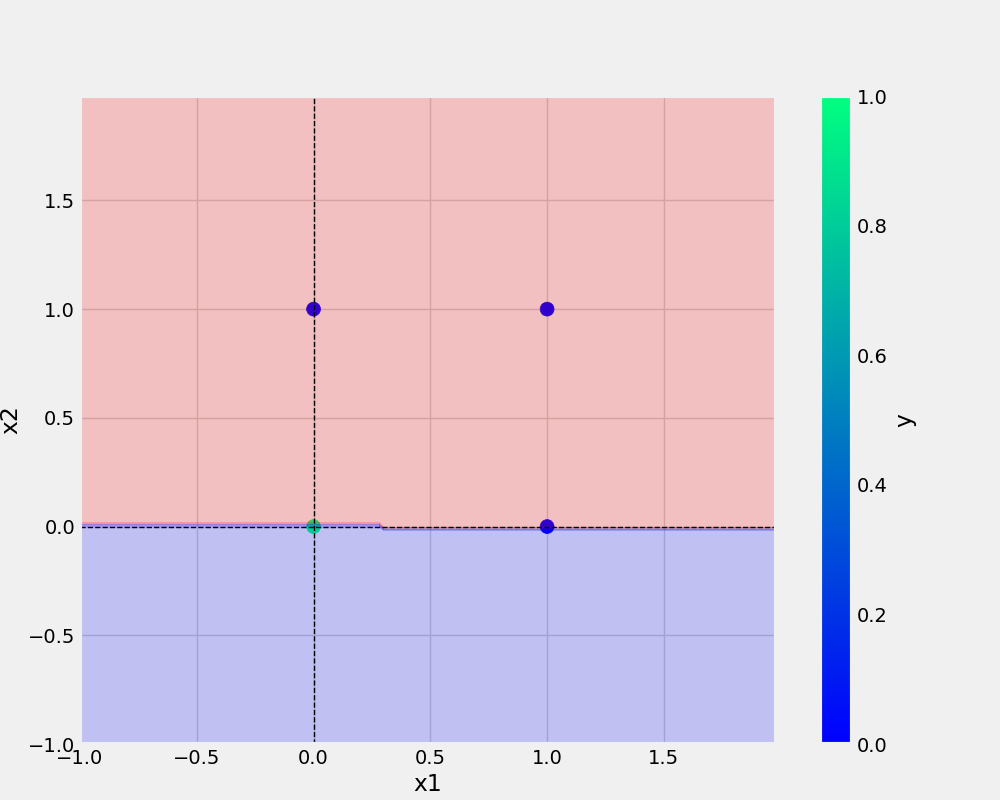
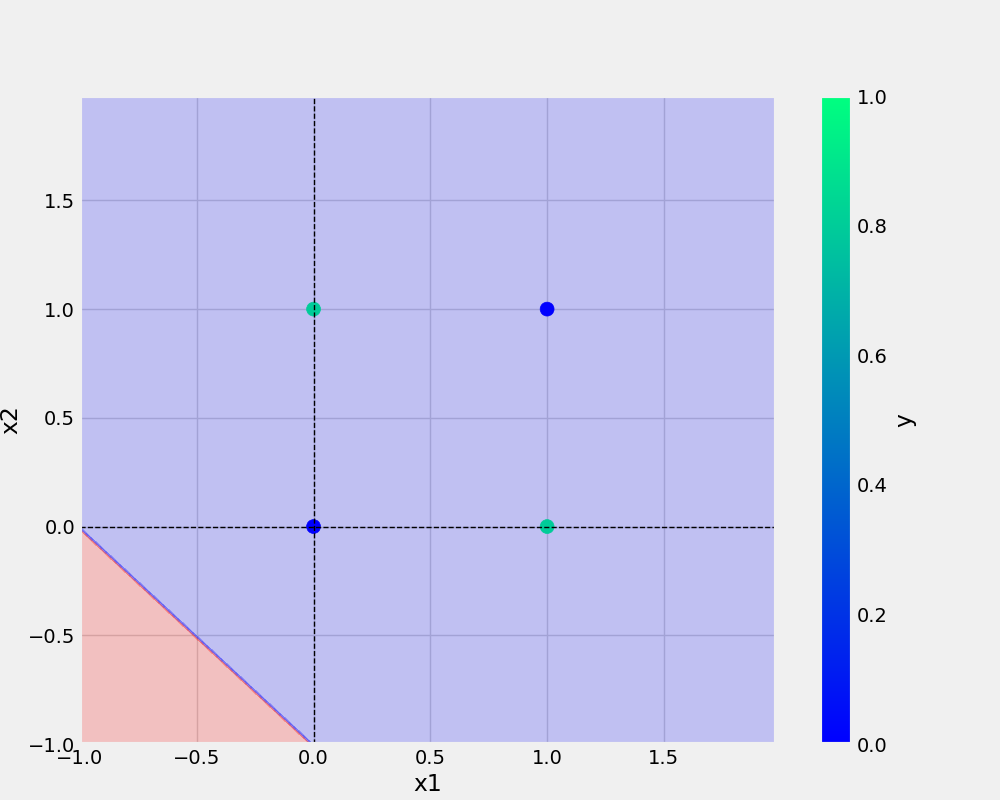
updated xor nand

diff --git a/nand.py b/nand.py
@@ -14,11 +14,11 @@ def main(data, modelName, plotName, eta, epochs):
     save_plot(df, plotName, model)
 
 if __name__ == '__main__':
-    XOR = {
+    NAND = {
         "x1": [0,0,1,1],
         "x2": [0,1,0,1],
-        "y": [0,1,1,0],
+        "y": [1,1,1,0 ],
     }
     ETA = 0.3 # 0 and 1
     EPOCHS = 10
-    main(data=XOR, modelName="xor.model", plotName="xor.png", eta=ETA, epochs=EPOCHS)
+    main(data=NAND, modelName="nand.model", plotName="nand.png", eta=ETA, epochs=EPOCHS)
